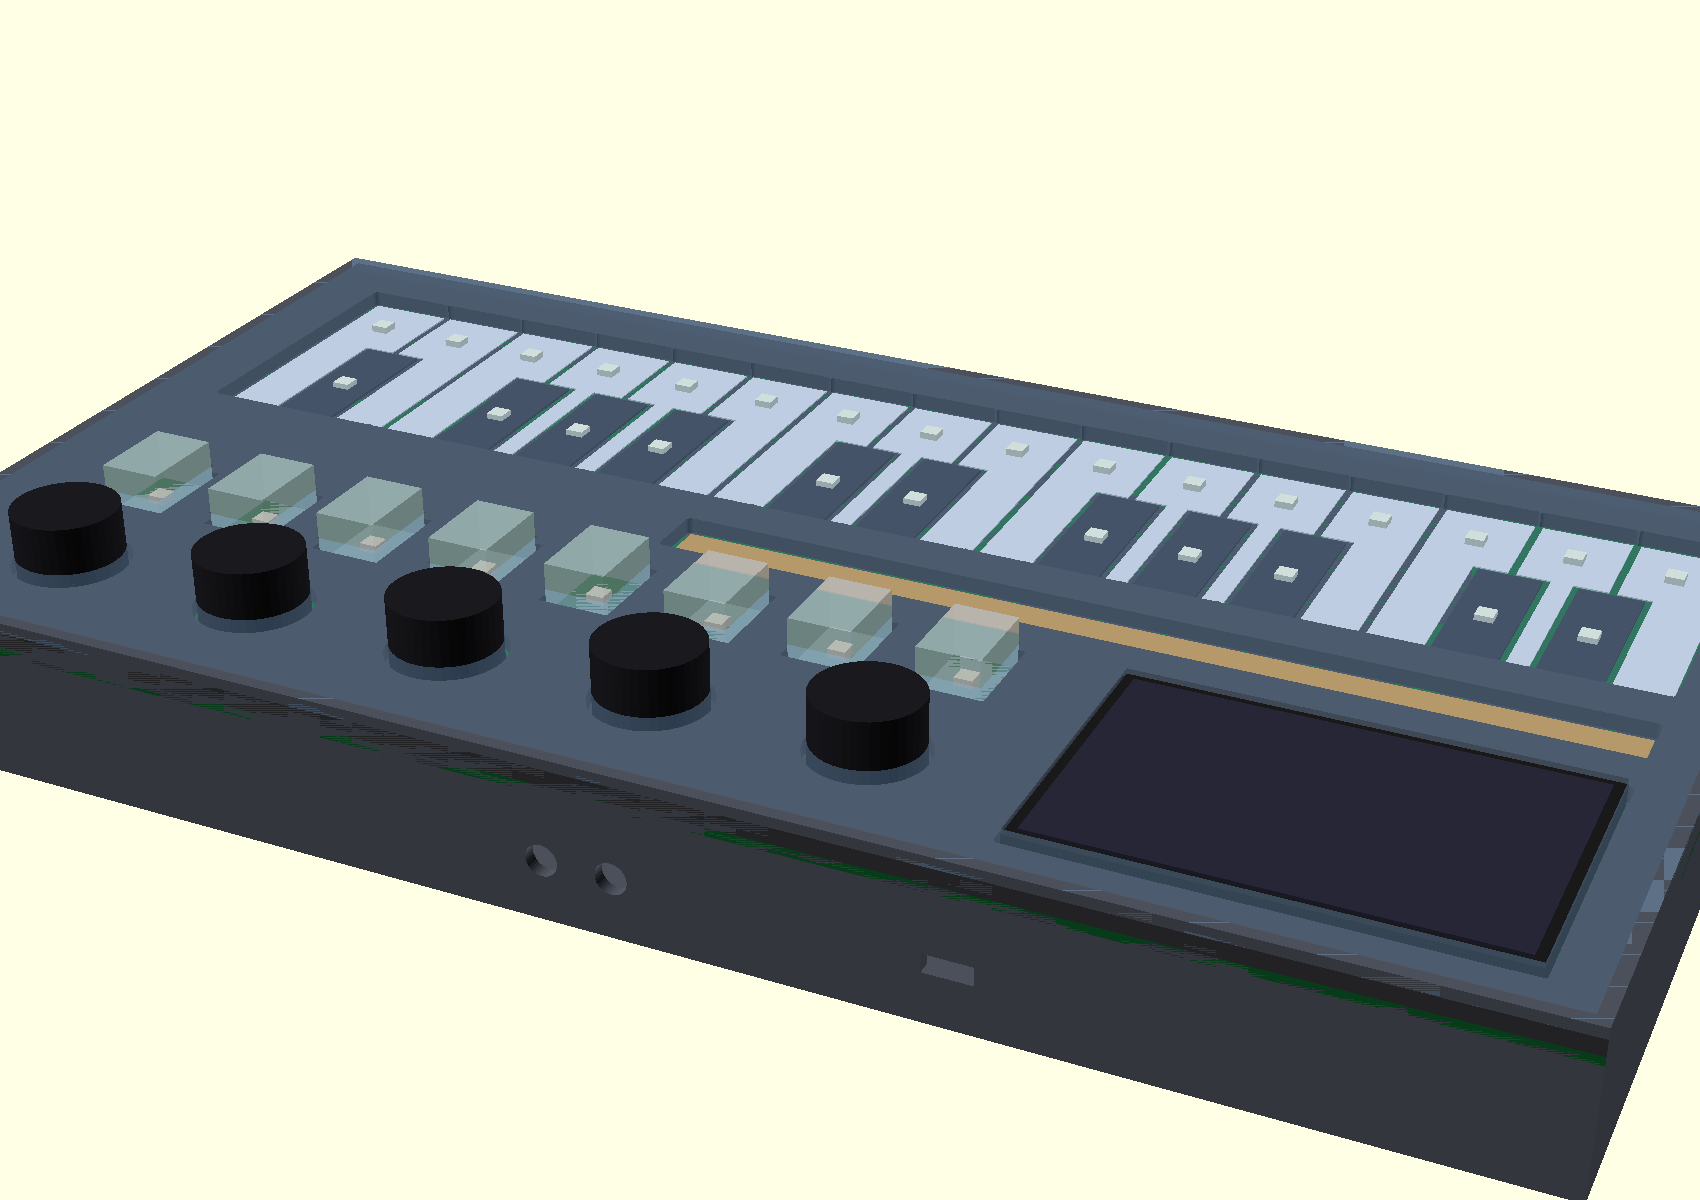
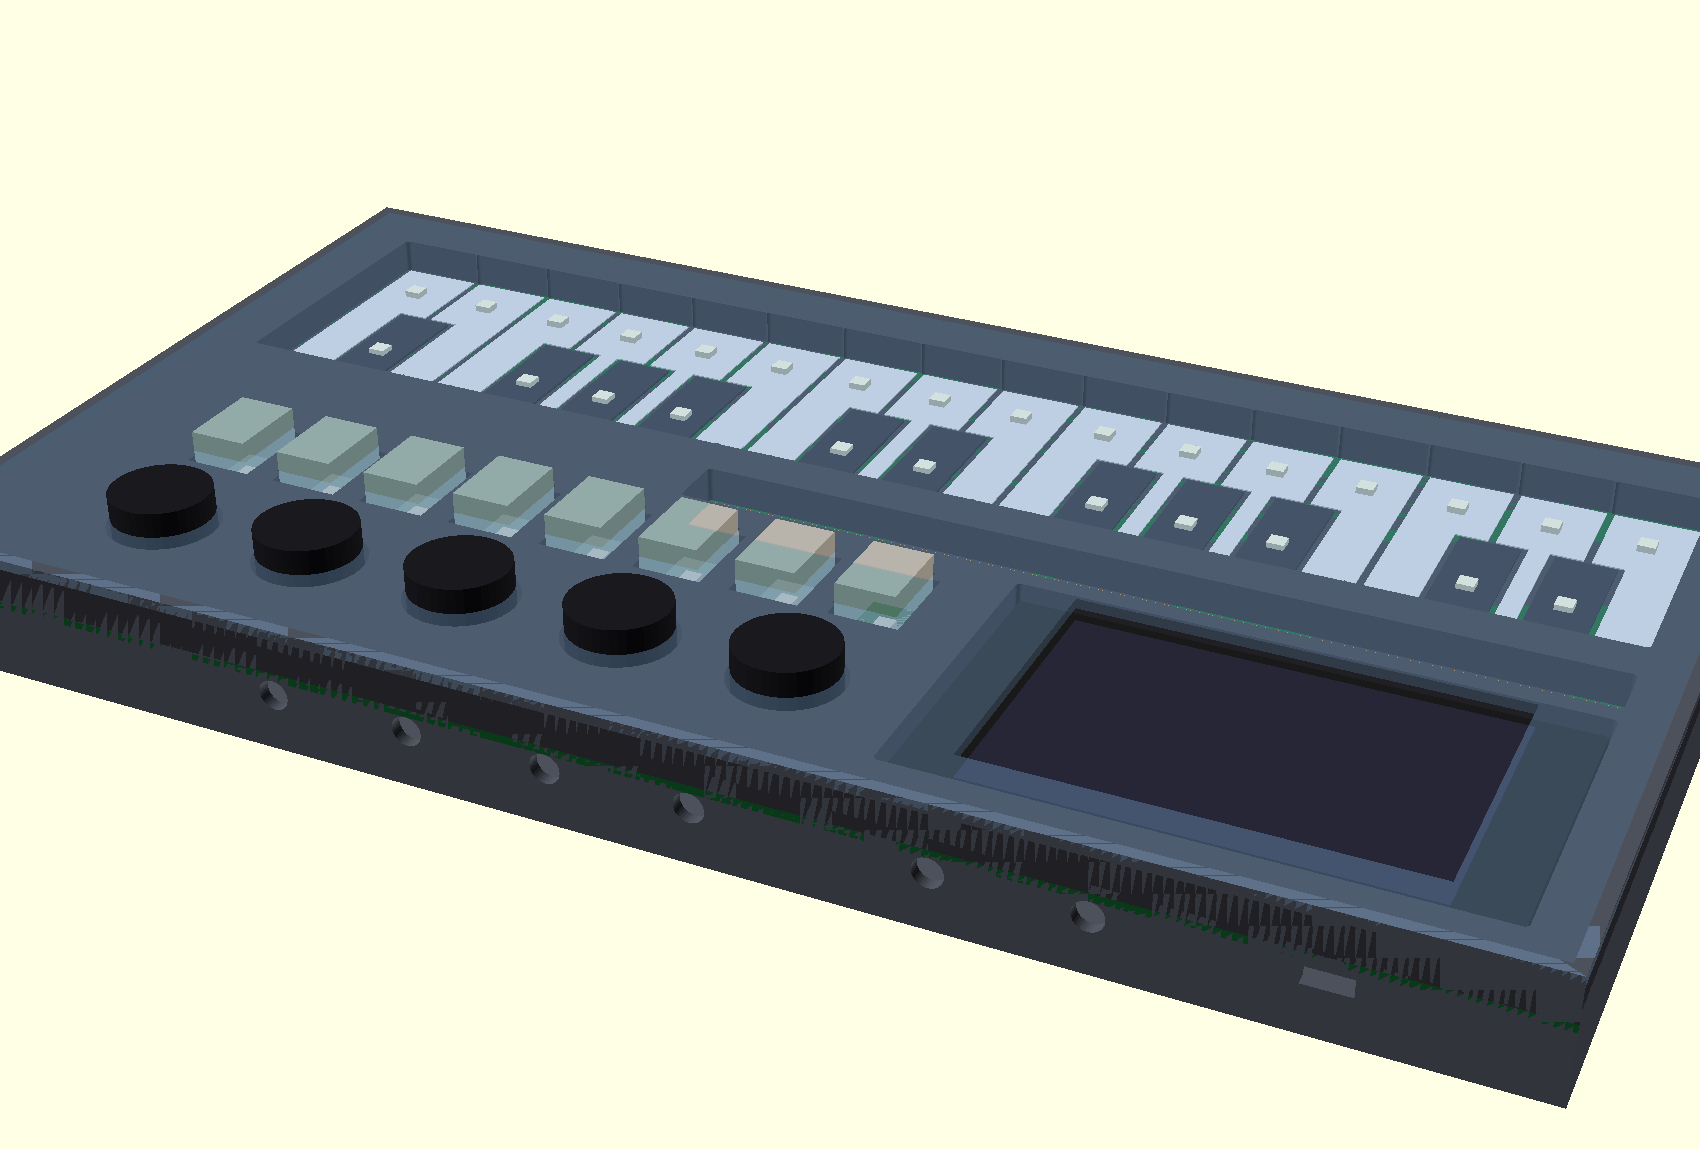
Méca : profondeur recalée sur cotes réelles (~25 mm) + vues à jour
Entrefer avant 3→7 mm (dégage le corps EC11 ~6,5 + PB86 + écran) ; cavité
sous PCB 22→12 mm (3× ESP32 + connecteurs PJ-320A board-edge). Profondeur
totale ~25 mm. Conséquence actée : 2 PCB (électrodes capacitives près du
plexi + PCB principal en bas). cap PB86 13 mm. Vues éclatée/boîtier/profil
régénérées (layout écran 108×62, ruban, PB86 12×17).

Changed region(s): [[0.0, 0.1826, 1.0, 1.0], [0.0935, 0.2739, 0.1247, 0.3043], [0.0624, 0.3043, 0.0935, 0.3348]]

diff --git a/docs/BOM.md b/docs/BOM.md
@@ -88,10 +88,15 @@
 - Budget LED : 27× SK6812 ≈ 1,6 A crête → **plafonner luminosité** (USB-C 15 W).
 - CV en **0–5 V** → pas de rail +12 V. **LDO 5 V propre** dédié DAC/Vref (anti-bruit).
 
-## 11. Mécanique 🟢
-- Plexi **2 mm** (overlay capacitif + fenêtre écran + perçages enc/boutons).
-- Grille espaceur **3 mm** (puits de lumière). PCB **1,6 mm**. Boîtier parois 2,5 mm,
-  cavité ~22 mm. Profondeur ~31 mm (à recaler sur EC11 ~31-32 mm + connecteurs).
+## 11. Mécanique 🟢 (profondeur recalée)
+- Empilement (haut→bas) : plexi **2 mm** · **entrefer avant 7 mm** (dégage le corps
+  EC11 ~6,5 + PB86 + module écran) · PCB **1,6 mm** · **cavité 12 mm** (3× ESP32 ~3 +
+  connecteurs) · fond **2,5 mm**. → **profondeur totale ≈ 25 mm.**
+- ⚠ **2 PCB** : sous-couche **électrodes capacitives** près du plexi (touches + ruban,
+  gap ~2-3 mm pour la sensibilité) **+ PCB principal** en bas (encodeurs, électronique,
+  connecteurs). L'entrefer 7 mm = dégagement du corps des encodeurs entre les deux.
+- Jacks **PJ-320A board-edge** (~5 mm) + USB-C sur la **tranche arrière**, au niveau du
+  PCB principal. Boîtier parois **2,5 mm**.
 
 ## 12. Budget IO / répartition 3 puces 🟡
 **Tactile = 32 canaux (27 touches + ruban ~5) → les 3 puces en font** :
